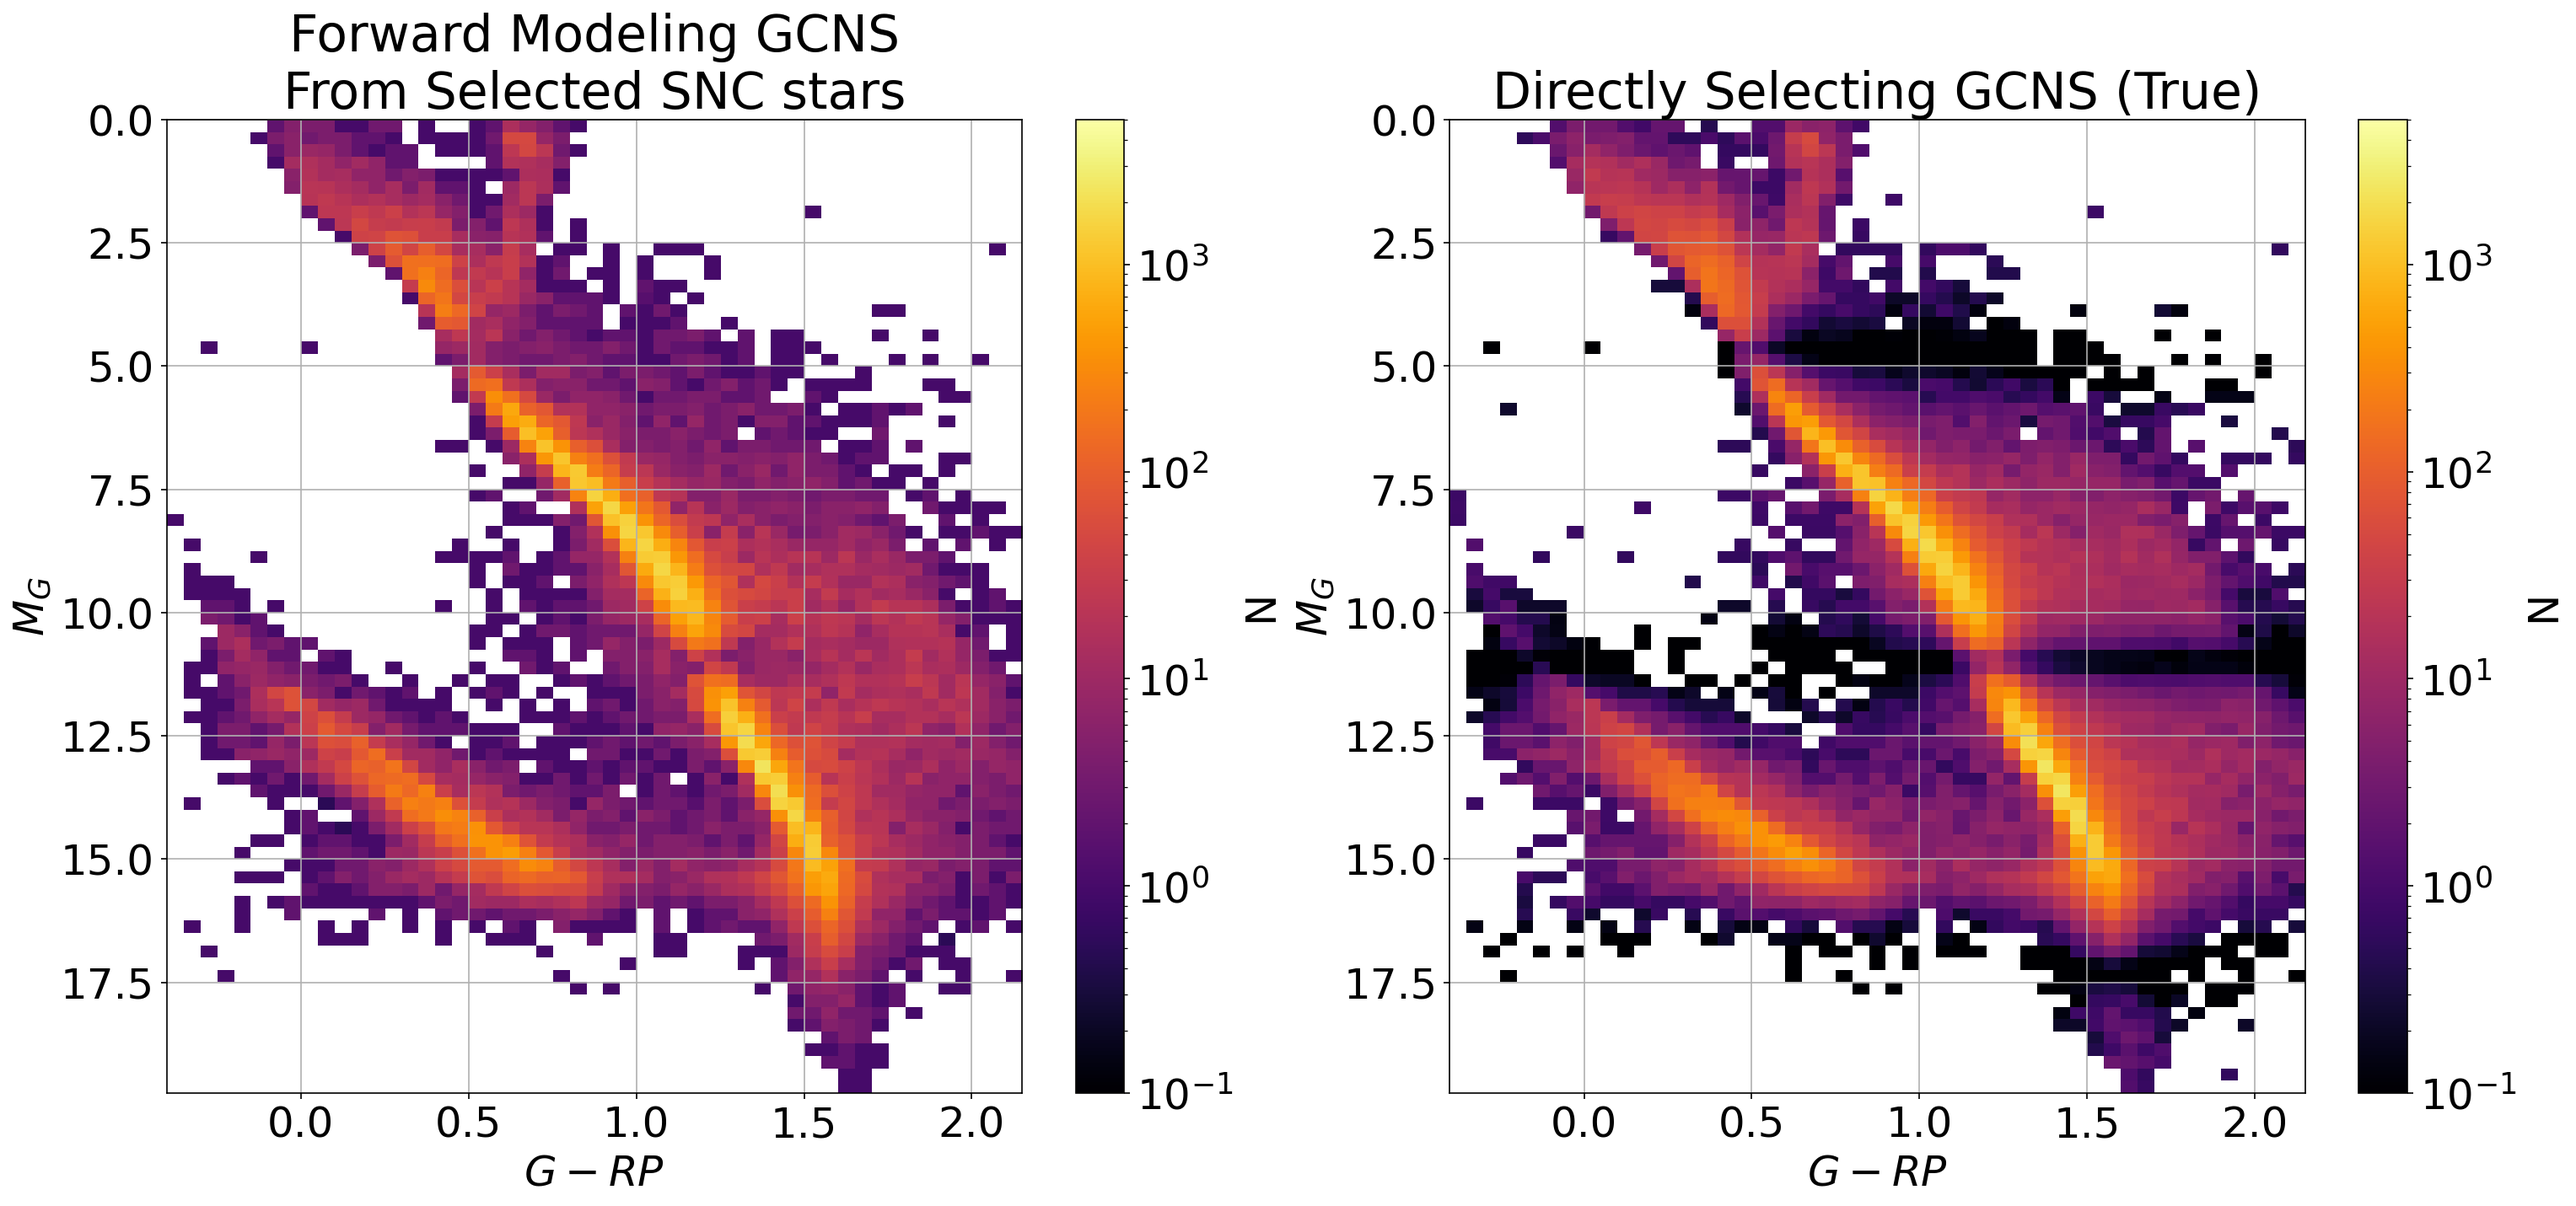
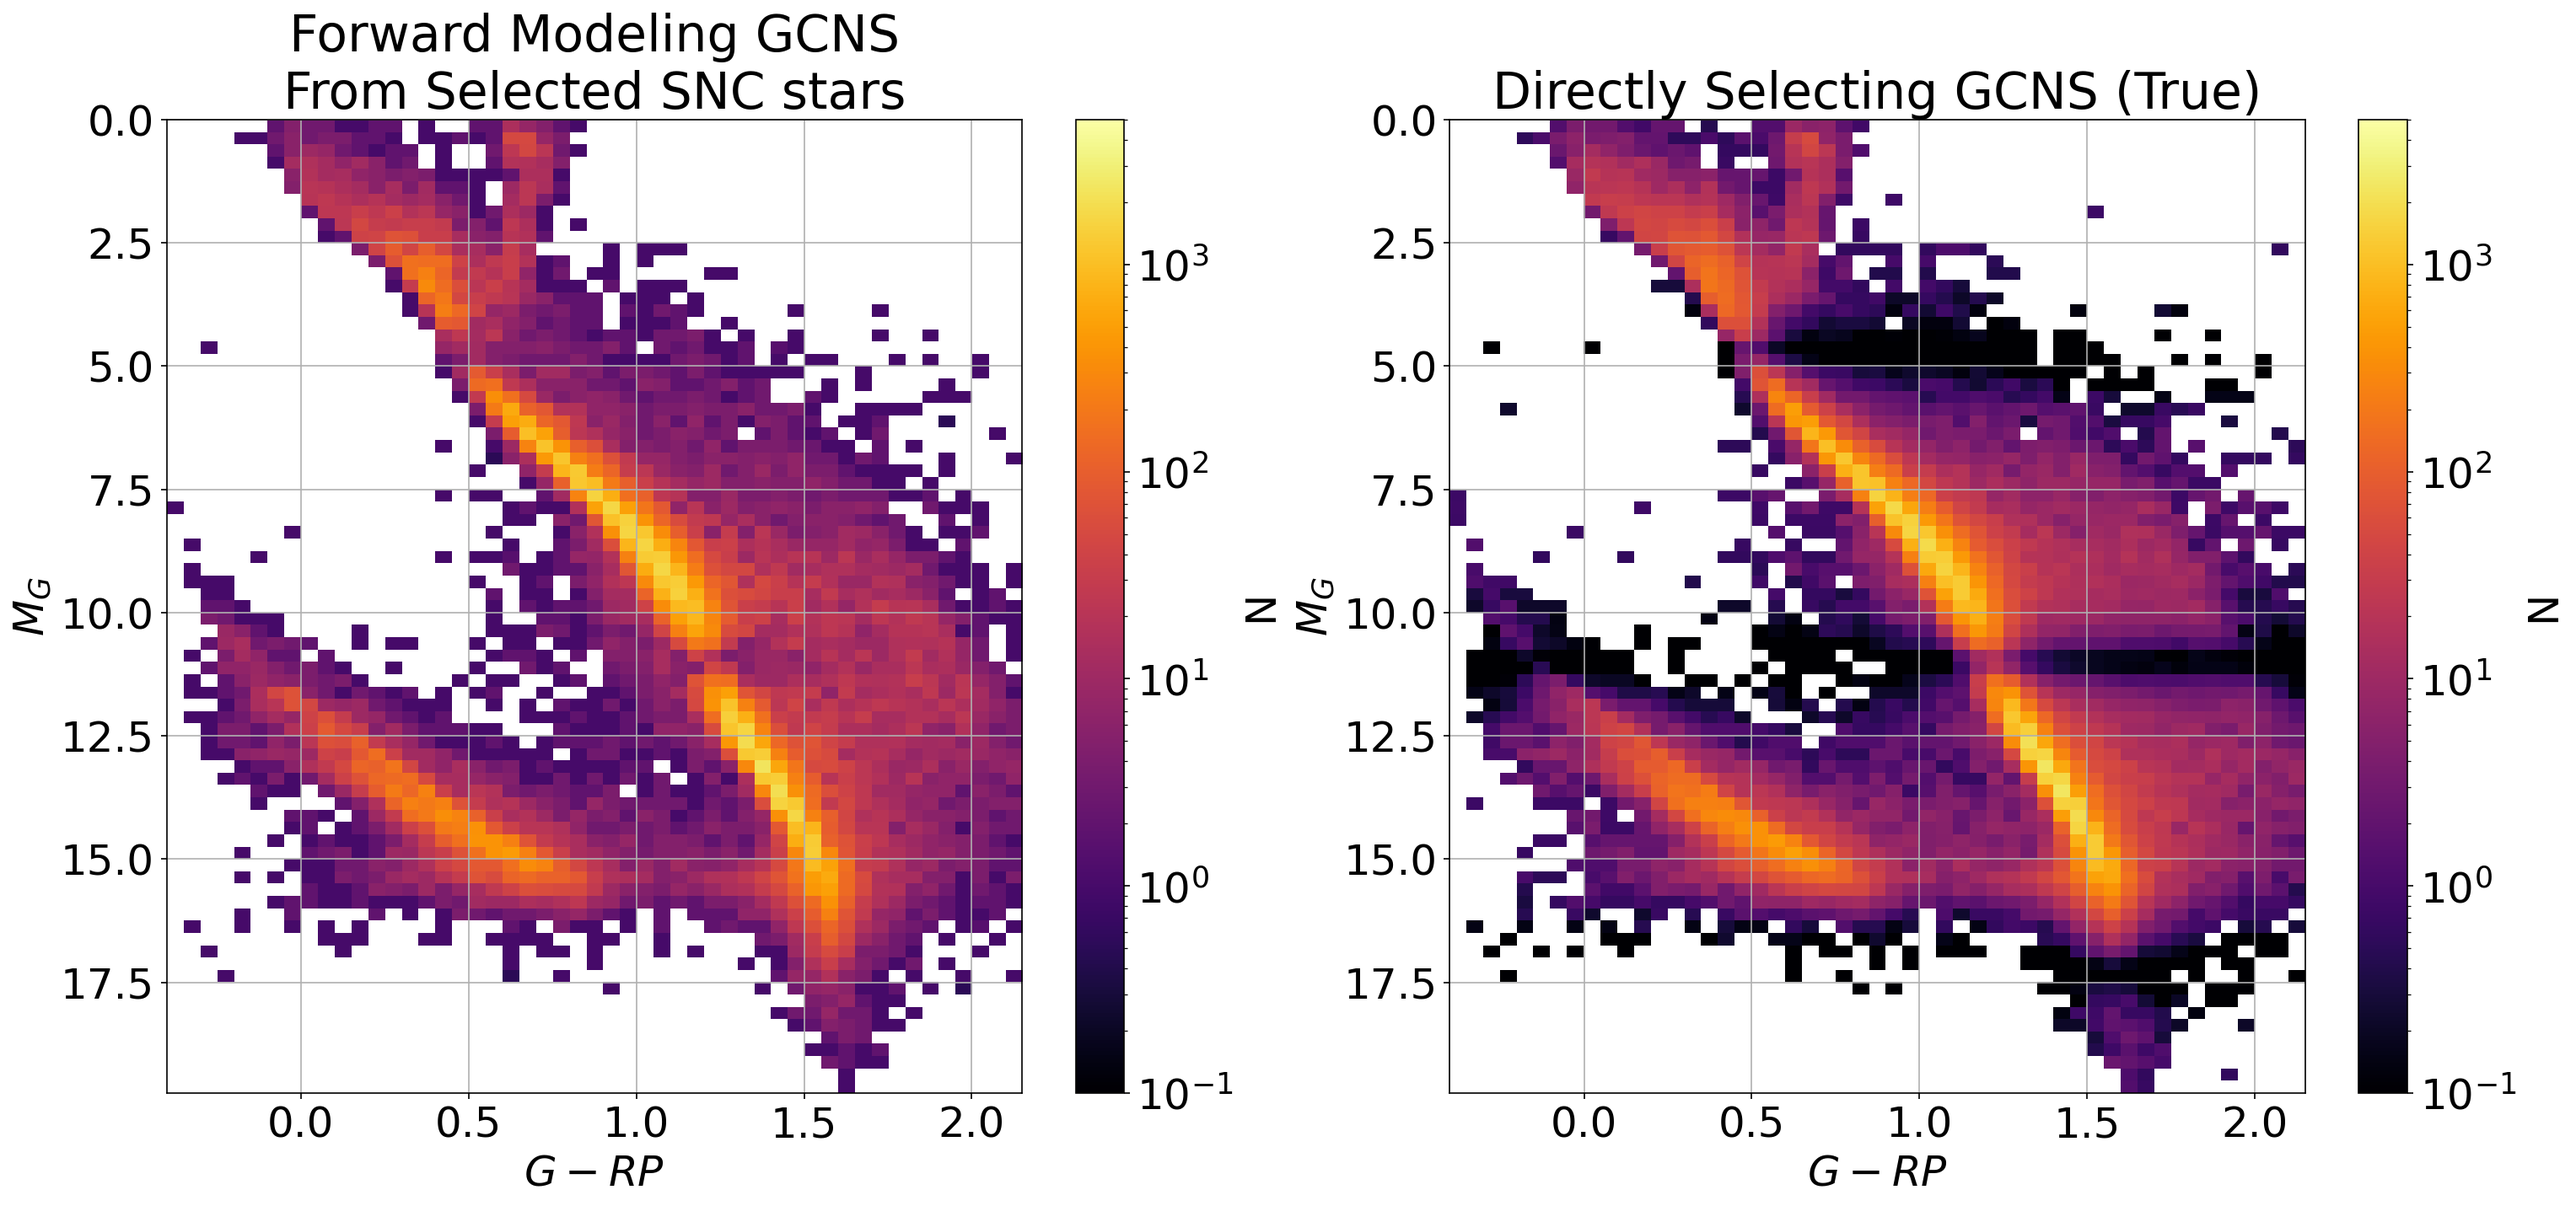
update gpu:

diff --git a/notebooks/forward_model_GCNS_mock_proof.py b/notebooks/forward_model_GCNS_mock_proof.py
@@ -79,7 +79,7 @@ if __name__ == '__main__':
     plt.close()
 
     # run optimization
-    p_samples, ev_valid = sf.forward_model(filter_data, num_warmup=10000, num_samples=2000)
+    p_samples, ev_valid = sf.forward_model(filter_data, num_warmup=5000, num_samples=2000, num_chains=2)
 
     # plot results
     p_mean = jnp.mean(p_samples, axis=0)
